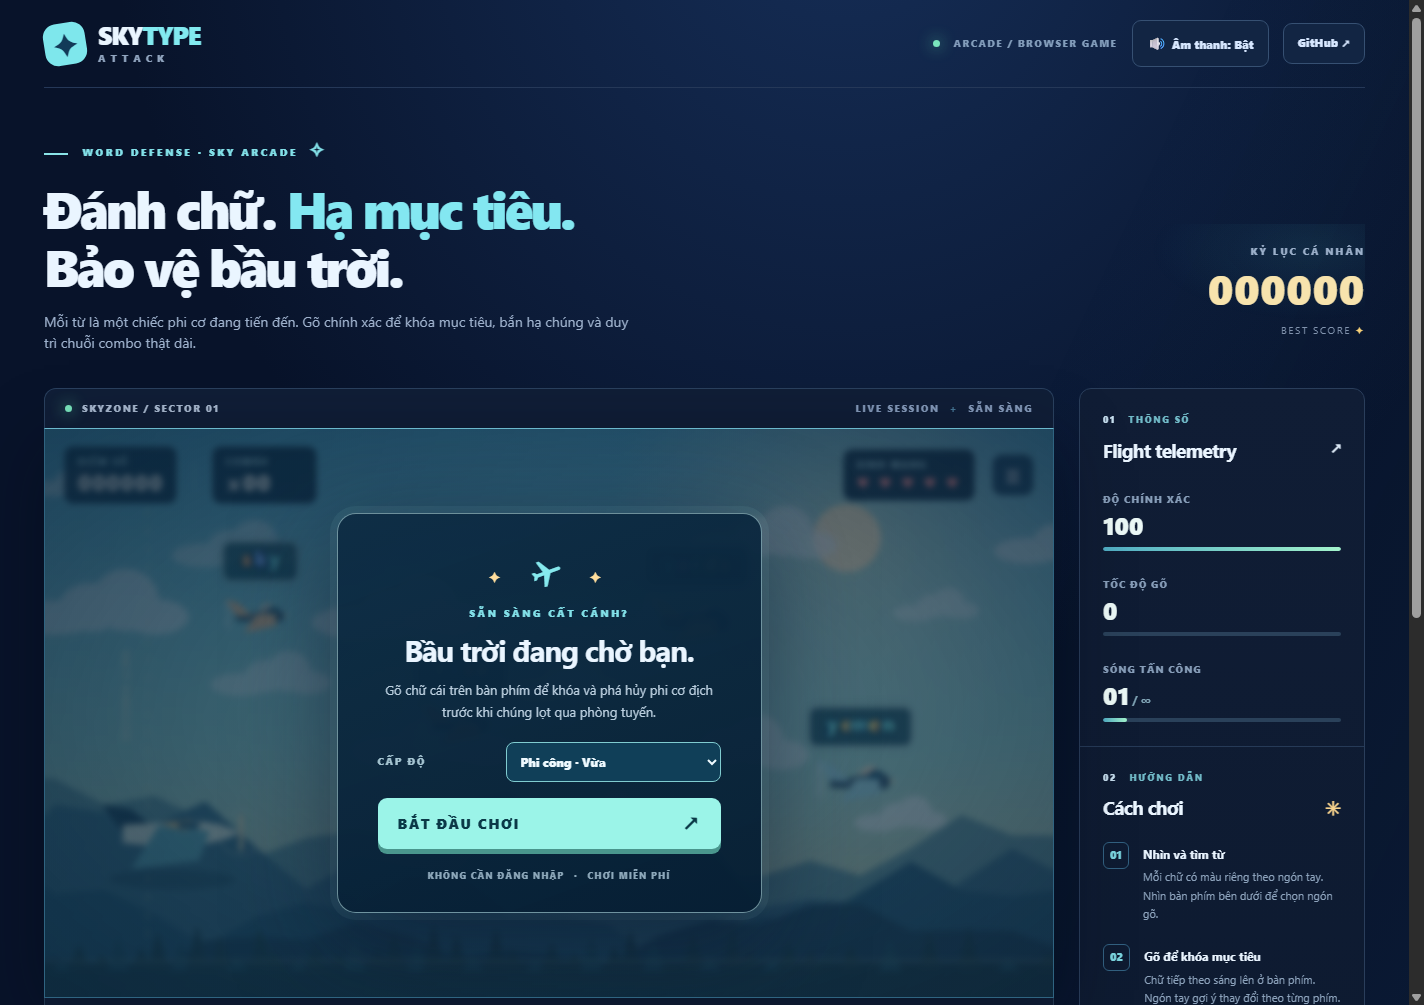
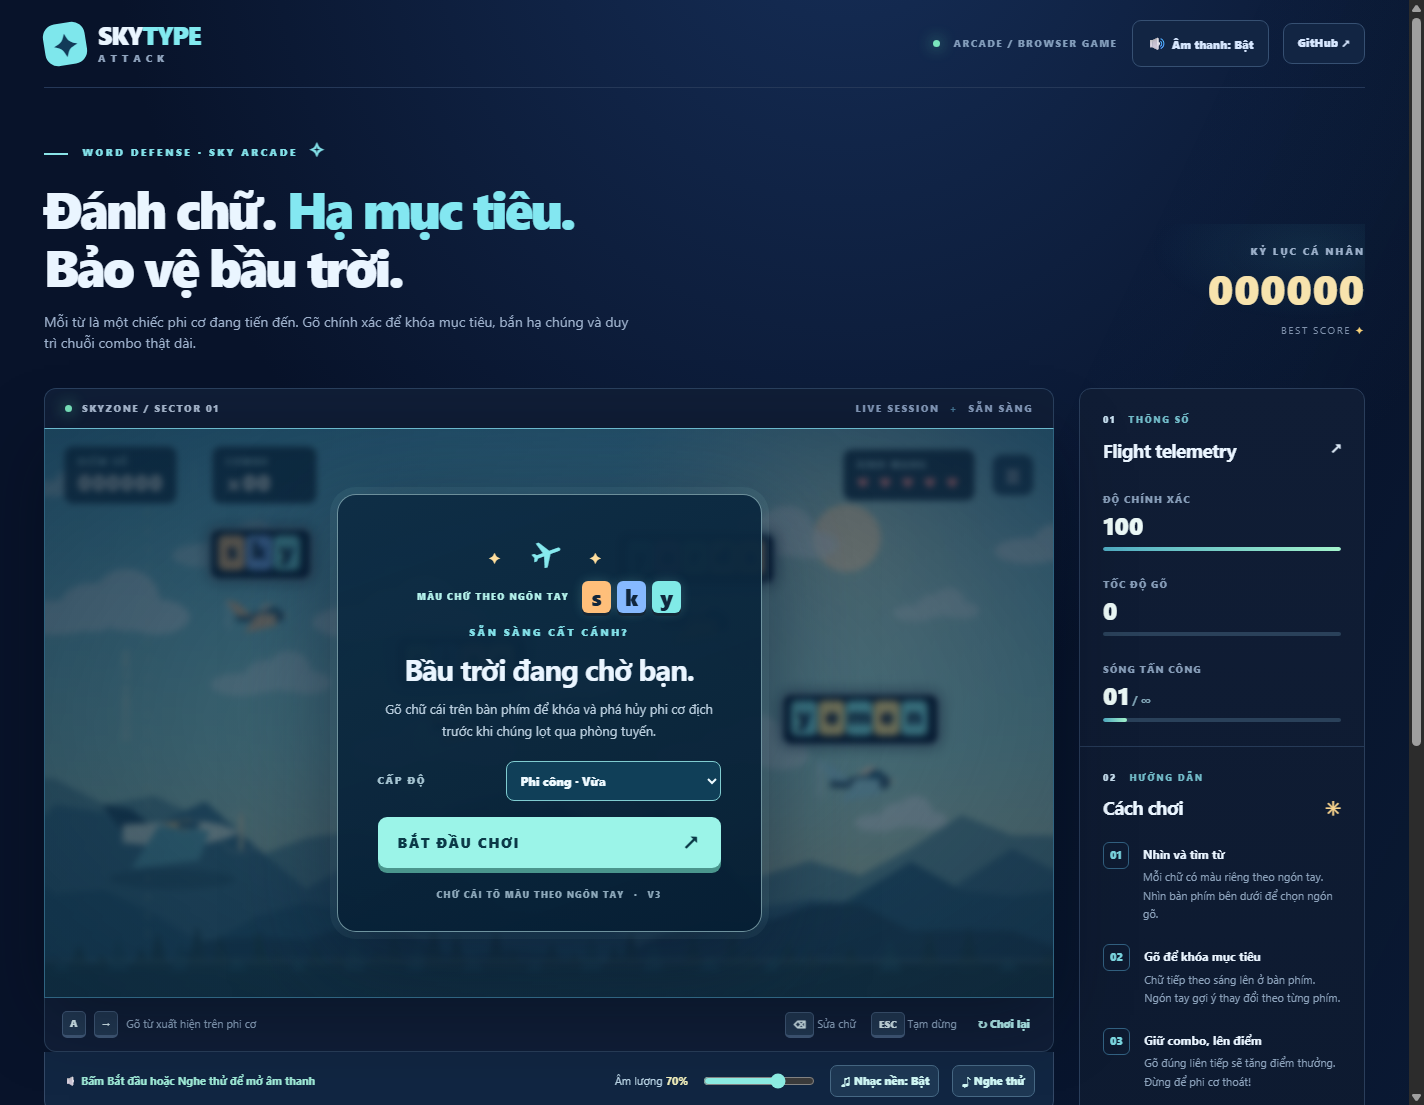
fix: show high-contrast finger colors and refresh game assets (#3)

diff --git a/src/game.js b/src/game.js
@@ -27,6 +27,10 @@ function updateAudioStatus(){
  ui.volumeValue.textContent=Math.round(mixer.volume*100)+"%";
 }
 function initFingerTrainer(){
+ for(const letter of document.querySelectorAll("#colorSample [data-letter]")){
+  letter.style.backgroundColor=colorFor(letter.dataset.letter);
+  letter.style.color="#10263c";
+ }
  for(const row of KEY_ROWS){
   const line=document.createElement("div");line.className="key-row";
   for(const letter of row){
@@ -281,31 +285,29 @@ function drawPlane(x,y,scale,color,bob=0,isPlayer=false){
  ctx.restore();
 }
 function drawWord(e){
- const fontSize=23,word=e.word,pad=18,labelW=word.length*15.2+pad*2,top=e.y-63-labelW*0;
- const x=e.x-labelW/2,y=top-17;
+ const word=e.word,step=30,tileWidth=27,padding=11,labelW=word.length*step+padding*2;
+ const x=e.x-labelW/2,y=e.y-95,done=active===e?wordBuffer.length:0;
  ctx.save();
- ctx.shadowColor=active===e?"#f5edb0":"rgba(22,69,91,.3)";ctx.shadowBlur=active===e?18:8;
- ctx.lineWidth=active===e?2.7:1.5;
- roundRect(x,y,labelW,43,9,active===e?"rgba(24,73,84,.94)":"rgba(31,87,100,.78)",active===e?"#fbef9c":"rgba(234,255,243,.72)");
+ ctx.shadowColor=active===e?"rgba(255,246,183,.85)":"rgba(13,32,54,.7)";
+ ctx.shadowBlur=active===e?22:12;
+ ctx.lineWidth=active===e?3:2;
+ roundRect(x,y,labelW,57,10,"rgba(10,31,52,.97)",active===e?"#fff0a2":"#d0f7fa");
  ctx.shadowBlur=0;
- if(active===e){ctx.beginPath();ctx.moveTo(e.x,y+43);ctx.lineTo(e.x,e.y-22);ctx.strokeStyle="#fff1aeaa";ctx.setLineDash([4,5]);ctx.stroke();ctx.setLineDash([]);}
- ctx.font="900 "+fontSize+"px ui-sans-serif,system-ui";ctx.textBaseline="middle";ctx.textAlign="center";
- ctx.fillStyle="#ecf8ee";
- ctx.shadowColor="#174c69";ctx.shadowBlur=3;
- const done=active===e?wordBuffer.length:0,spacing=15.2;
- const left=e.x-(word.length*spacing)/2;
+ if(active===e){
+  ctx.beginPath();ctx.moveTo(e.x,y+57);ctx.lineTo(e.x,e.y-23);
+  ctx.strokeStyle="#fff0a2";ctx.setLineDash([5,4]);ctx.lineWidth=2;ctx.stroke();ctx.setLineDash([]);
+ }
+ ctx.font="900 26px ui-sans-serif,system-ui";ctx.textBaseline="middle";ctx.textAlign="center";
  for(let i=0;i<word.length;i++){
-  ctx.fillStyle=colorFor(word[i]);ctx.lineWidth=3.3;
-  ctx.strokeStyle="rgba(12,42,62,.92)";
-  ctx.strokeText(word[i],left+i*spacing+spacing/2,y+21);
-  ctx.fillText(word[i],left+i*spacing+spacing/2,y+21);
+  const letter=word[i],color=colorFor(letter),tx=x+padding+i*step,ty=y+9;
+  ctx.shadowColor=color;ctx.shadowBlur=(active===e&&i===done)?18:5;
+  roundRect(tx,ty,tileWidth,36,5,color,null);
+  ctx.shadowBlur=0;
+  ctx.fillStyle="#13243a";ctx.fillText(letter,tx+tileWidth/2,ty+18);
   if(i<done){
-   ctx.beginPath();ctx.strokeStyle="#b9ffd9";ctx.lineWidth=2;
-   const xx=left+i*spacing+spacing/2;
-   ctx.moveTo(xx-6,y+34);ctx.lineTo(xx+6,y+34);ctx.stroke();
-  }else if(i===done&&active===e){
-   ctx.strokeStyle="#fff8b7";ctx.lineWidth=1.5;
-   ctx.strokeRect(left+i*spacing-1,y+5,spacing+2,31);
+   ctx.fillStyle="#c8ffe2";ctx.fillRect(tx+6,ty+38,tileWidth-12,3);
+  }else if(active===e&&i===done){
+   ctx.lineWidth=2.6;ctx.strokeStyle="#ffffff";ctx.strokeRect(tx-2,ty-2,tileWidth+4,40);
   }
  }
  ctx.restore();

diff --git a/index.html b/index.html
@@ -8,7 +8,7 @@
 <title>SkyType Attack — Đánh máy, bảo vệ bầu trời</title>
 <link rel="icon" href="favicon.svg" type="image/svg+xml">
 <link rel="manifest" href="manifest.webmanifest">
-<link rel="stylesheet" href="styles.css">
+<link rel="stylesheet" href="styles.css?v=3">
 </head>
 <body>
 <div class="page-glow" aria-hidden="true"></div>
@@ -40,12 +40,13 @@
        <div class="overlay-vignette"></div>
        <div class="overlay-card">
          <div class="overlay-symbol">✦ <span>✈</span> ✦</div>
+         <div class="color-sample" id="colorSample" aria-label="Ví dụ chữ cái mang màu theo ngón tay"><span class="sample-caption">MÀU CHỮ THEO NGÓN TAY</span><div class="color-sample-letters"><span data-letter="s">s</span><span data-letter="k">k</span><span data-letter="y">y</span></div></div>
          <div class="overlay-kicker" id="overlayKicker">SẴN SÀNG CẤT CÁNH?</div>
          <h2 id="overlayTitle">Bầu trời đang chờ bạn.</h2>
          <p id="overlayText">Gõ chữ cái trên bàn phím để khóa và phá hủy phi cơ địch trước khi chúng lọt qua phòng tuyến.</p>
          <div class="difficulty-row"><label for="difficulty">CẤP ĐỘ</label><select id="difficulty"><option value="easy">Tân binh · Dễ</option><option value="normal" selected>Phi công · Vừa</option><option value="hard">Át chủ bài · Khó</option></select></div>
          <button id="startBtn" type="button" class="start-button">BẮT ĐẦU CHƠI <span>↗</span></button>
-         <div class="overlay-foot">KHÔNG CẦN ĐĂNG NHẬP <span>·</span> CHƠI MIỄN PHÍ</div>
+         <div class="overlay-foot">CHỮ CÁI TÔ MÀU THEO NGÓN TAY <span>·</span> V3</div>
        </div>
      </div>
      <div class="toast" id="toast" aria-live="polite"></div>
@@ -75,10 +76,10 @@
    <div class="side-footer"><span class="pulse-icon">◉</span><div><strong>100% MIỄN PHÍ & NGOẠI TUYẾN</strong><span>Không tài khoản, không máy chủ, không theo dõi.</span></div></div>
  </aside>
 </section>
-<div class="lower-strip"><span>ENGINE: HTML5 CANVAS / WEB AUDIO / VANILLA JAVASCRIPT</span><span>MADE FOR QUICK FINGERS <b>✦</b></span></div>
+<div class="lower-strip"><span>ENGINE: HTML5 CANVAS / WEB AUDIO / COLOR KEYS V3</span><span>MADE FOR QUICK FINGERS <b>✦</b></span></div>
 </main>
 <footer class="site-footer">SKYTYPE ATTACK <span>© 2026 · OPEN SOURCE</span><a href="https://github.com/trinhtanphat/sky-typing-attack">SOURCE CODE ↗</a></footer>
 </div>
-<script type="module" src="src/game.js"></script>
+<script type="module" src="src/game.js?v=3"></script>
 </body>
 </html>

diff --git a/styles.css b/styles.css
@@ -40,3 +40,10 @@
  .finger-legend{grid-template-columns:repeat(2,minmax(0,1fr));gap:6px}.finger-chip{font-size:9px}
  .word-progress .letter-rainbow .finger-char{min-width:7px}
 }
+
+/* High-contrast finger color preview in the opening menu. */
+.color-sample{margin:6px auto 9px;display:flex;align-items:center;justify-content:center;gap:13px;flex-wrap:wrap}
+.sample-caption{color:#b4f2eb;font-weight:900;font-size:9px;letter-spacing:1.35px}
+.color-sample-letters{display:flex;gap:6px}
+.color-sample-letters span{width:29px;height:32px;border-radius:6px;display:grid;place-items:center;font-size:22px;line-height:1;font-weight:950;box-shadow:0 3px 0 #152736,0 0 12px #9af5ea33}
+@media(max-width:600px){.color-sample{gap:7px;margin:3px auto}.sample-caption{font-size:7px;letter-spacing:.6px}.color-sample-letters span{width:24px;height:25px;font-size:18px}}

diff --git a/sw.js b/sw.js
@@ -1,4 +1,4 @@
-const CACHE="skytype-cache-v2";
+const CACHE="skytype-cache-v3";
 const FILES=["./","./index.html","./styles.css","./src/engine.js","./src/game.js","./src/fingers.js","./src/audio.js","./favicon.svg","./manifest.webmanifest"];
 self.addEventListener("install",event=>{event.waitUntil(caches.open(CACHE).then(cache=>cache.addAll(FILES)));self.skipWaiting();});
 self.addEventListener("activate",event=>{event.waitUntil(caches.keys().then(keys=>Promise.all(keys.filter(k=>k!==CACHE).map(k=>caches.delete(k)))));self.clients.claim();});

diff --git a/README.md b/README.md
@@ -6,6 +6,12 @@ A lightweight, responsive browser typing-defense game inspired by retro sky arca
 
 ![SkyType Attack — gameplay](preview.png)
 
+## Version 1.2.1 — high-contrast finger letters
+
+Every aircraft word uses **solid, brightly colored keycap tiles** (not barely tinted text). The main menu previews `s k y` in three finger colors so you can confirm the new version immediately. Letter colors match the QWERTY guide.
+
+If a previously installed offline version is still showing pale labels, open the cache-busting URL: **[Open color edition V3](https://trinhtanphat.github.io/sky-typing-attack/?v=3)**. The refreshed service worker uses network-first caching.
+
 ## Gameplay
 - English words float above incoming aircraft.
 - Type a word to lock on, keep typing to shoot it down.
